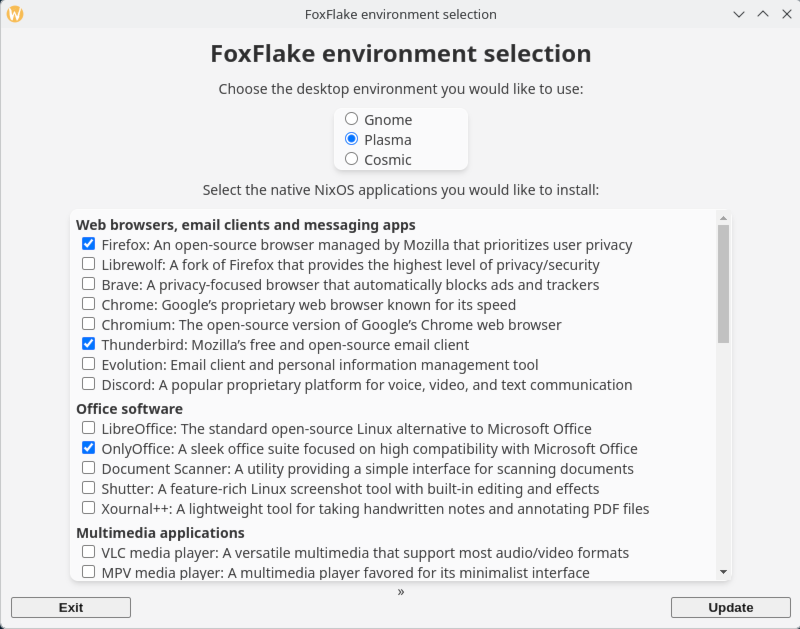
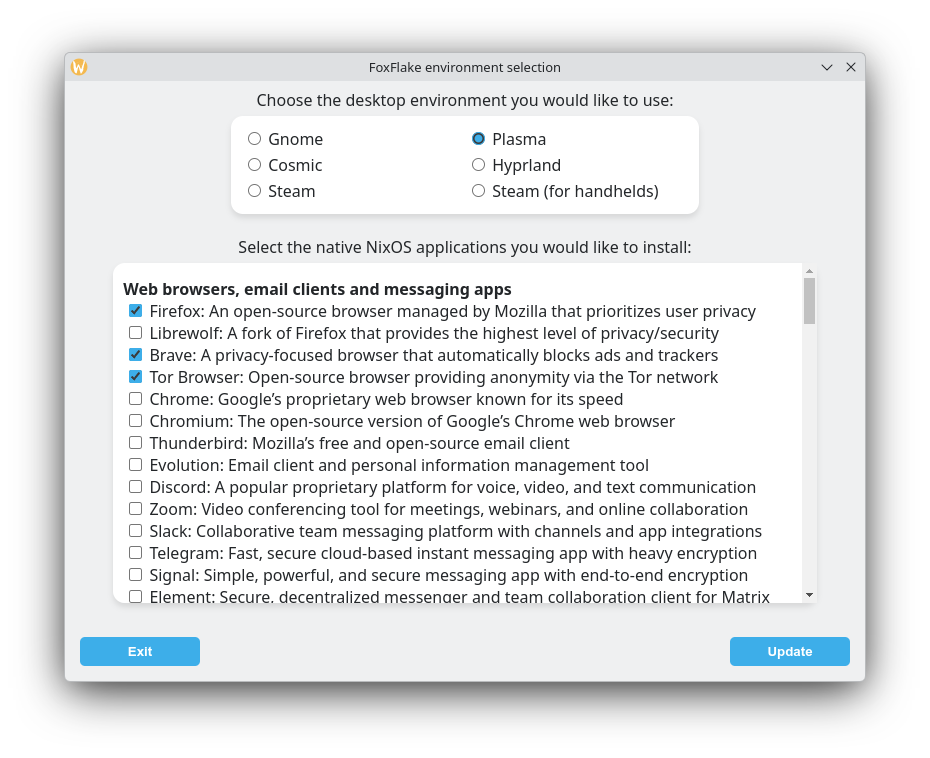
Add Steam sessions in Readme

Changed region(s): [[0.0, 0.0, 1.0, 1.0], [0.0, 0.0, 0.0312, 0.0604], [0.9688, 0.0, 1.0, 0.0302]]

diff --git a/Readme.md b/Readme.md
@@ -9,40 +9,41 @@
 
 FoxFlake is a comprehensive configuration of the NixOS Linux distribution (Flake) that automates NixOS management tasks to keep the user experience simple.<br><br>
 
+It is designed to accommodate two distinct types of users:<br>
+  - Zero-Maintenance Mode: Manage your NixOS apps via the "FoxFlake Environment Selection" application, install flatpaks from the desktop environment's store and let FoxFlake handle the maintenance.<br>
+  - Custom Declarative Configurations: Define your custom configurations in the file /etc/nixos/configuration.nix, the core OS maintenance is taken care of and you are only in charge of maintaining your specific configurations.<br><br>
+
 ## Key features
 
-🖥 Environment flexibility<br>
-  - Desktop versatility: Seamlessly switch between Gnome, Plasma, Cosmic and Hyprland environments.<br>
-  - Simple package management: Manage your set of NixOS applications via the "FoxFlake Environment Selection" tool and use the desktop environment’s store to install Flatpaks.<br>
-  - Extended compatibility with AppImages / scripts: Run most standalone linux programs natively.<br>
-  - Complete binary cache: Ensures with its own binary cache that prebuilt packages are available for all included desktop environments and packages configurations (it avoids NixOS from building packages from source when a binary package is not available).<br><br>
+Environment flexibility:<br>
+- Desktop versatility: Seamlessly switch between Gnome, Plasma, Cosmic, Hyprland and Steam environments.<br>
+- Simple package management: Manage your set of NixOS applications via the "FoxFlake Environment Selection" tool and use the desktop environment’s store to install Flatpaks.<br>
+- Extended compatibility with AppImages / scripts: Run most standalone linux programs natively.<br>
+- Complete binary cache: Ensures with its own binary cache that prebuilt packages are available for all included desktop environments and packages configurations (avoids NixOS from building packages from source when a binary package is not available).<br><br>
 
-🛡 Automation & Reliability <br>
-  - Automated lifecycle: The system automatically transitions between NixOS versions, providing a "rolling release" experience without manual configuration changes.<br>
-  - Zero-intervention maintenance: FoxFlake automates daily updates for both system packages and system / user Flatpaks (System updates are staged in the background and applied safely on the next boot).<br>
-  - Atomic rollbacks: Leveraging the Nix "Generations" mechanism, FoxFlake allows you to instantly revert to previous working states directly from the boot menu.<br><br>
+Automation & Reliability:<br>
+- Automated lifecycle: The system automatically transitions between NixOS versions, providing a "rolling release" experience.<br>
+- Zero-intervention maintenance: FoxFlake automates daily updates for both system packages and system / user Flatpaks (System updates are staged in the background and applied safely on the next boot).<br>
+- Atomic rollbacks: Leveraging the Nix "Generations" mechanism, FoxFlake allows you to instantly revert to previous working states directly from the boot menu.<br><br>
 
-🚀 Declarative Foundation<br>
-  - Base layer management: Focus on your specific configurations while FoxFlake maintains the core configurations.<br>
-  - Unrestricted options: All NixOS options remain available and supersede FoxFlake defaults.<br>
-  - Unified declarative stack: Includes home-manager, plasma-manager, and nix-flatpak for complete system-to-users configuration.<br><br>
+Declarative Foundation:<br>
+- Base layer management: Focus on your specific configurations while FoxFlake maintains the core configurations.<br>
+- Unrestricted options: All NixOS options remain available and supersede FoxFlake defaults.<br>
+- Unified declarative stack: Includes home-manager, plasma-manager, and nix-flatpak for complete system-to-users configuration.<br><br>
 
 ## Installation & Usage
 
 1. Download the latest ISO from the Releases page.<br>
 2. Use balenaEtcher, GNOME Disks or KDE ISO Image Writer to create a bootable USB drive (do not use Rufus, it is not compatible at the moment).<br>
-3. Ensure that Secure Boot is disabled in your BIOS, boot from the USB and follow the graphical installer (during installation, you will be prompted to select your preferred Desktop Environment and to choose your NixOS native applications).<br><br>
+3. Ensure that Secure Boot is disabled in your BIOS, boot from USB and follow the graphical installer (during installation, you will be prompted to select your Desktop Environment and to choose the NixOS native applications you want to install).<br><br>
 
 <div align="center">
 Gnome:<br><img alt="Gnome" src="./Images/gnome.png" width="512" height="320" /><br><br>
 Plasma:<br><img alt="Plasma" src="./Images/plasma.png" width="512" height="320" /><br><br>
-Cosmic:<br><img alt="Gnome" src="./Images/cosmic.png" width="512" height="320" /><br><br>
-Hyprland:<br><img alt="Gnome" src="./Images/hyprland.png" width="512" height="320" /><br><br>
+Cosmic:<br><img alt="Cosmic" src="./Images/cosmic.png" width="512" height="320" /><br><br>
+Hyprland:<br><img alt="Hyprland" src="./Images/hyprland.png" width="512" height="320" /><br><br>
+Steam / Steam (for handhelds):<br><img alt="Steam" src="./Images/steam.png" width="512" height="320" /><br><br>
 </div>
-
-FoxFlake is designed to accommodate two distinct types of users:<br>
-  - Zero-Maintenance Mode: Manage your NixOS apps via the "FoxFlake Environment Selection" application, install flatpaks from the desktop environment's store and let FoxFlake handle the maintenance.<br>
-  - Custom Declarative Configurations: Define your custom configurations in the file /etc/nixos/configuration.nix, the core OS maintenance is taken care of and you are only in charge of maintaining your specific configurations.<br><br>
 
 ## Complementary instructions
 
@@ -50,36 +51,33 @@ FoxFlake is designed to accommodate two distinct types of users:<br>
 
 The "FoxFlake Environment Selection" application allows you to review at any point in time the desktop environment and applications choices you made:<br>
 <div align="center">
-<img alt="Gnome" src="./Images/foxflake-environment-selection.png" width="420" height="320" /><br><br>
-</div>
-
-### Hyprland
-
-A simple Hyprland configuration is provided as a base but you are free to completely change / replace it. You can check and modify Hyprland settings through the configuration file located at the standard path $HOME/.config/hypr/hyprland.conf.<br>
-Note that you are therefore responsible to update the hyprland configuration to accomodate upstream changes.<br><br>
+<img alt="Foxflake Environment Selection" src="./Images/foxflake-environment-selection.png" width="420" height="320" />
+</div><br><br>
 
 ### Adding custom configurations
 
 FoxFlake allows you to add any NixOS / Home Manager / Plasma Manager configurations.<br>
 Add your configurations to the file /etc/nixos/configuration.nix and update FoxFlake by running `foxflake-update`. Once done, reboot your system for changes to take effect.<br><br>
 
-Examples of configurations include:
-- Install specified system packages (use "pkgs.unstable" instead of "pkgs" for nix unstable channel packages):<br>
+Examples of configurations include:<br>
+- Install specified system packages (use "pkgs.unstable" instead of "pkgs" for nixos unstable channel packages):<br>
 `foxflake.system.packages = with pkgs; [ vim ];`<br>
 - Installs specified system Flatpaks:<br>
 `foxflake.system.flatpaks = [ "org.mozilla.firefox" ];`<br>
-- Install specified packages for a specific user (use "pkgs.unstable" instead of "pkgs" for nix unstable channel packages):<br>
+- Install specified packages for a specific user (use "pkgs.unstable" instead of "pkgs" for nixos unstable channel packages):<br>
 `foxflake.users.<username>.packages = with pkgs; [ vim ];`<br>
 - Install specified Flatpaks for a specific user:<br>
 `foxflake.users.<username>.flatpaks = [ "org.mozilla.firefox" ];`<br>
 - Add the user to the group wheel:<br>
 `foxflake.users.<username>.extraGroups = [ "wheel" ];`<br>
 - Modify your hostname:<br>
-`foxflake.networking.hostname = "foxflake";`
+`foxflake.networking.hostname = "desktop";`
 - Change the default Display Manager / Desktop Environment wallpaper:<br>
 `foxflake.customization.environment.wallpaper = "/home/common/wallpaper.png";`<br>
 - Disable automatic updates (then update your system manually by running `foxflake-update`):<br>
 `foxflake.autoUpgrade = false;`<br>
+- Enable HDR in Gaming apps / Proton:<br>
+`foxflake.gaming.hdr = true;`<br>
 - If you installed the Sunshine application, you can add this line for Sunshine to start automatically:<br>
 `services.sunshine.autoStart = true;`<br>
 - If you installed the OpenRGB application, you can add this line to load the profile "myprofile" on startup:<br>
@@ -91,12 +89,57 @@ services.scx = {
   scheduler = "scx_lavd";
 };
 ```
-<br>
+<br><br>
 
 ### Installing the nvidia driver
 
 For Nvidia GPUs compatible with the latest open source kernel modules, recommended drivers are automatically enabled during install.<br>
-For older nvidia cards, you will need to follow the [NixOS nvidia instructions][NixOS-nvidia].<br><br>
+
+For older nvidia cards, you will need to identify the nvidia package you need from [NixOS nvidia instructions][NixOS-nvidia] and to add the below lines to your configuration:<br>
+```
+  foxflake.nvidia.enable = true;
+  hardware.nvidia.open = false;
+  hardware.nvidia.package = config.boot.kernelPackages.nvidiaPackages.legacy_535; # Replace this with the nvidia driver package you need.
+```
+<br>
+Note: The SteamOS session will not work correctly with nvidia drivers below version 575.<br><br>
+
+### Steam sessions
+
+Steam sessions works similarly to SteamOS on the SteamDeck and offer to launch either Steam (through Gamescope) or Plasma.<br><br>
+
+There are 2 types of Steam sessions, one for generic computers and another for handhelds such as the SteamDeck. The first uses the standard steam branch while the handhelds specific version comes with the performance overlay and specific tweaks (the handhelds version can also be used on a standard PC but you might encounter graphical artifacts and you would need to add "SteamDeck=0" in your games launch command options to prevent pre-defined SteamDeck settings from being applied).<br><br>
+
+If autologin is enabled, the default is to start the Steam session, you can then switch to Plasma using the Steam "Switch to desktop" button. Once in Plasma, you can go back to the Steam session simply by logging out of the Plasma session.<br><br>
+
+You can also customize the Steam session through specific options:<br>
+- Invert the autologin session (boot automatically in Plasma and launch the Steam session if you logout):<br>
+`foxflake.environment.steam.primarySession = "plasma";`<br>
+- Define the display to use for the Steam session:<br>
+`foxflake.environment.steam.display = "DP-1";`<br>
+- Set the default resolution to use for the Steam session (in the format width x height x refresh rate):<br>
+`foxflake.environment.steam.resolution = "1920x1080x60";`<br>
+- HDR can be enabed in the Steam session with the global option:<br>
+`foxflake.gaming.hdr = true;`<br><br>
+
+If you want to keep your main desktop environment and to have a secondary Steam session, you can do it through a NixOS "specialisation" (a specific boot entry for the Steam session will be added to the bootloader):
+```
+specialisation."Steam".configuration = {
+  boot.loader.grub.configurationName = lib.mkForce "Steam";
+  foxflake.environment = {
+    type = lib.mkForce "steam";
+    steam.primarySession = lib.mkForce "steam";
+  };
+};
+```
+<br><br>
+
+You can also pass specific arguments to gamescope and Steam through the "GAMESCOPE_FLAGS" and "STEAM_FLAGS" environment variables.<br><br>
+
+### Hyprland notes
+
+A simple Hyprland configuration is provided as a base but you are free to completely change / replace it. You can check and modify Hyprland settings through the configuration file located at the standard path $HOME/.config/hypr/hyprland.conf.<br>
+Note that you are therefore responsible to update the hyprland configuration to accomodate upstream changes.<br><br>
 
 ### Setting up the Home manager user environment
 
